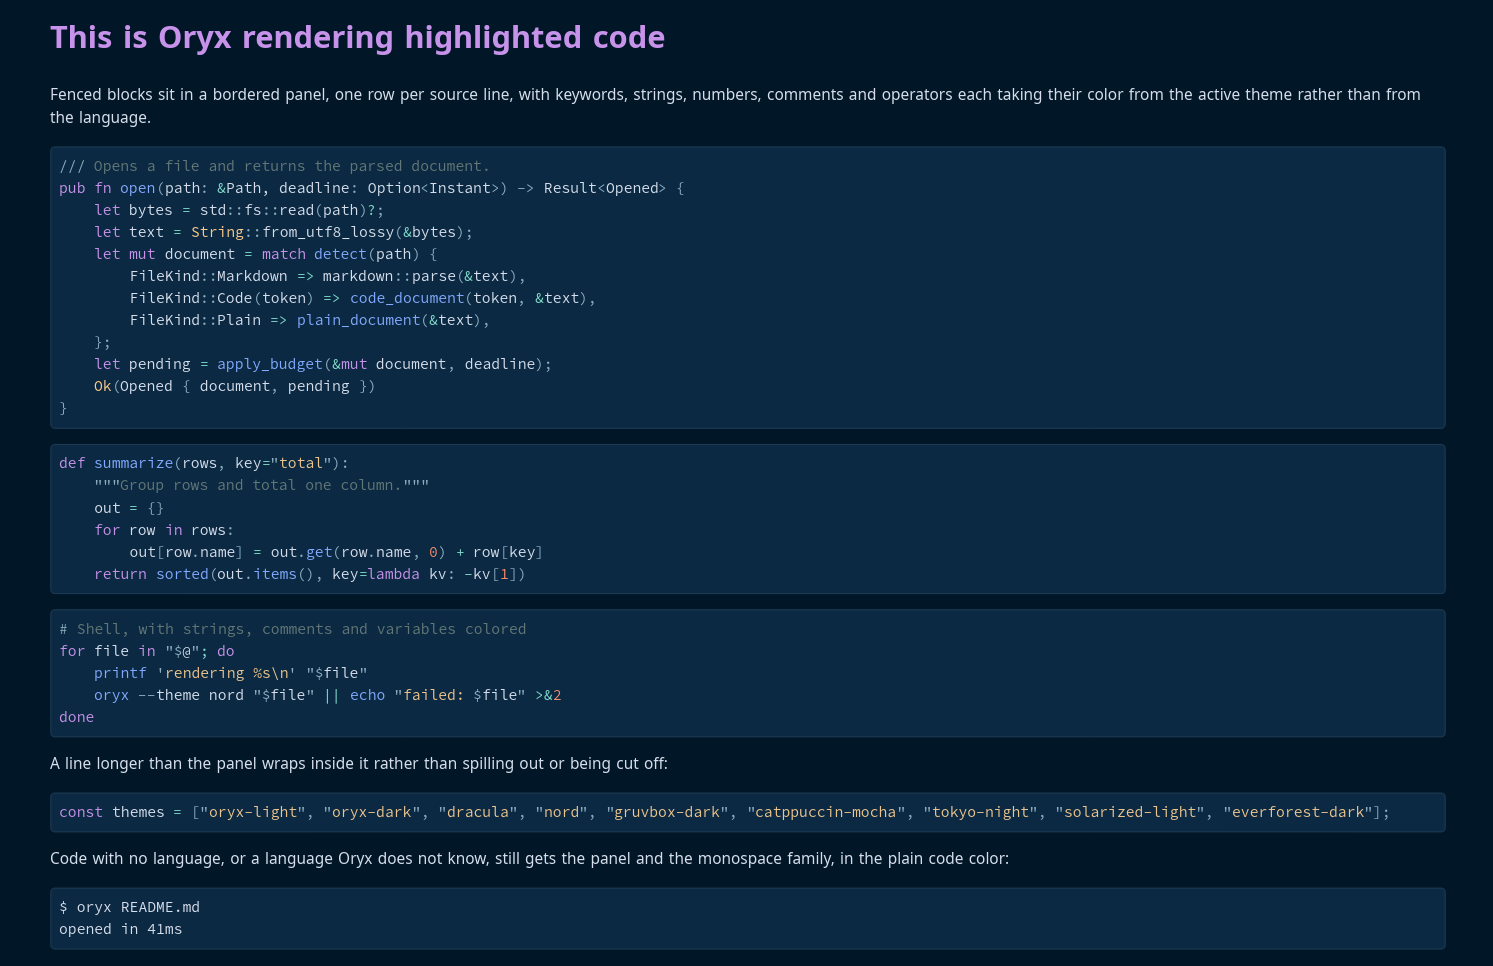
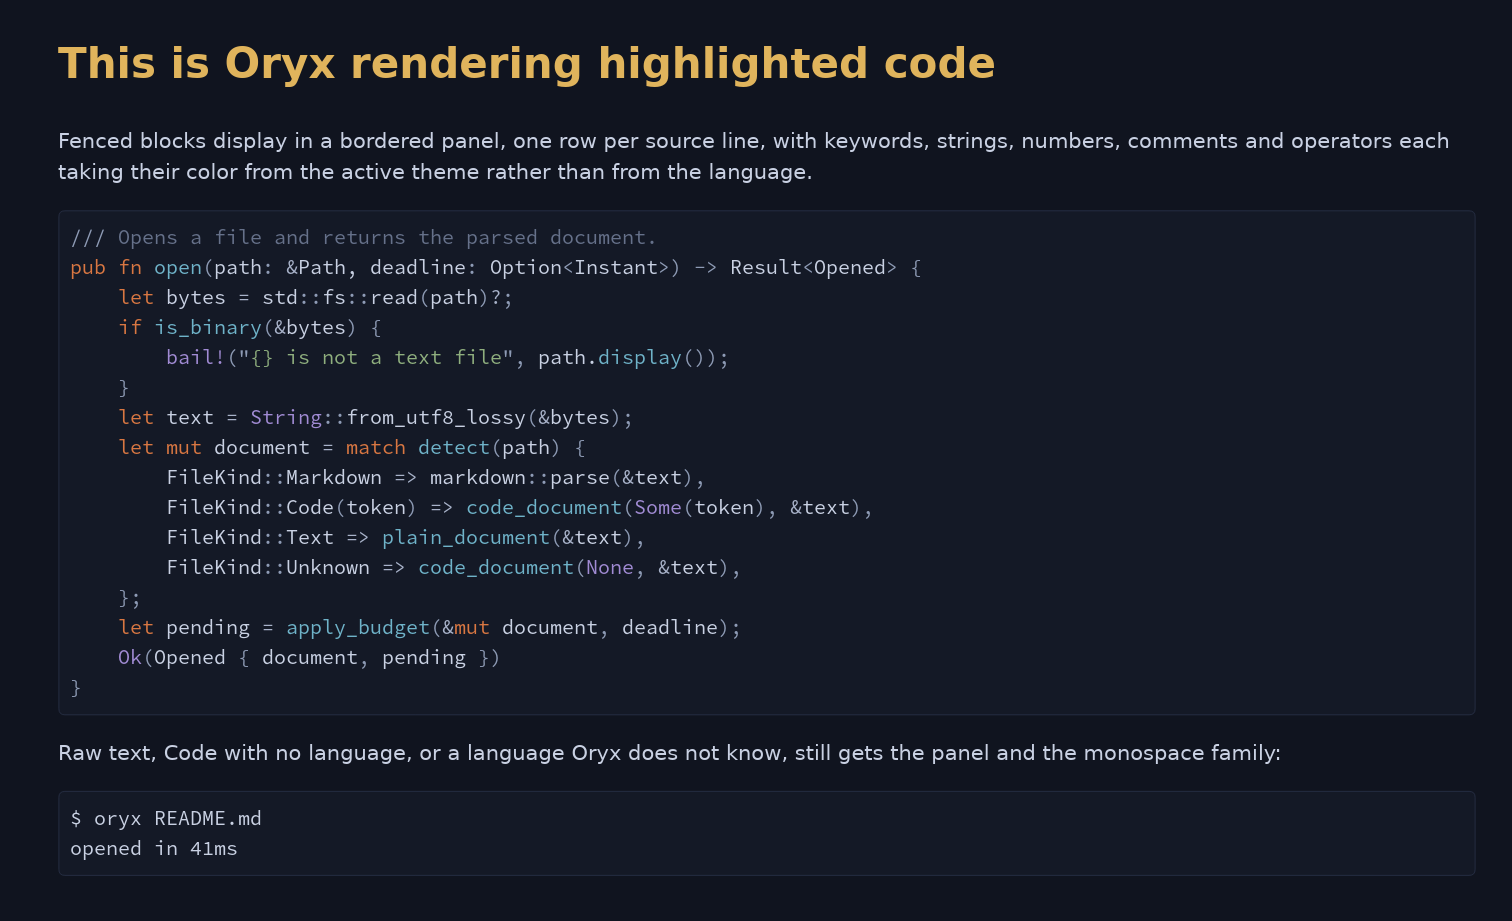
docs: README and screenshots

diff --git a/README.md b/README.md
@@ -5,65 +5,78 @@ A fast, native viewer for markdown and code.
 ![License](https://img.shields.io/badge/license-GPL--3.0-orange)
 ![Platforms](https://img.shields.io/badge/platforms-Linux%20%7C%20Windows-blue)
 
-Most markdown tools are editors with a preview attached, or they embed a browser engine to draw text. Oryx is built for the reading case: the file you want to open, read and close, without an editor or a browser tab in the way. It renders documents natively in one small binary, opens them in a fraction of a second whatever their size, and ships with thirty-one themes and a PDF exporter.
+## Why Oryx
+
+Oryx is built for the reading case: the file you want to open fast, enjoy reading, maybe export to PDF and close, without an editor or a browser tab in the way. It renders beautiful markdown natively in one small binary, opens files in a fraction of a second whatever their size, and ships with many themes and nice-looking PDF export.
+
+- A normal document is on screen in well under 100 milliseconds from cold, and an 8MB file takes under half a second.
+- Oryx has no panes, no toolbars and no menus. F1 lists the shortcuts, Escape closes whatever is open.
+- It renders beautiful markdown and PDF exports with its 31 themes that address 51 color roles.
+- One binary and a folder of themes. No browser engine, no runtime, no GPU requirement.
+- It performs the same on a new laptop as on an old machine with no graphics card.
 
 ![Oryx rendering a markdown document](screenshots/formatting.png)
 
-[Why Oryx](#why-oryx) · [What it renders](#what-it-renders) · [Reading tools](#reading-tools) · [Themes](#themes) · [Export to PDF](#export-to-pdf) · [Install](#install) · [Use](#use) · [Performance](#performance) · [Limits](#limits)
+- [What it renders](#what-it-renders)
+- [Tools](#tools)
+- [Themes](#themes)
+- [Export to PDF](#export-to-pdf)
+- [Install](#install)
+- [Use](#use)
+- [Performance](#performance)
+- [Limits](#limits)
 
-## Why Oryx
-
-**It opens instantly, whatever the size.** A normal document is on screen in well under 150 milliseconds from cold, and an 8MB file takes under half a second. Oryx highlights and lays out only the first few screens before it paints, then finishes the rest in the background while you read.
-
-**It reads, it does not edit.** There are no panes, no toolbars and no menus. F1 lists every shortcut, Escape closes whatever is open, and everything works from the keyboard.
-
-**There is nothing to install around it.** One binary and a folder of themes. No browser engine, no runtime, no GPU requirement. It behaves the same on a new laptop as on an old machine with no graphics card to speak of.
 
 ## What it renders
 
-**Markdown, the whole everyday set.** Headings, bold, italic, strikethrough, inline code, links and bare URLs, nested blockquotes, horizontal rules, smart quotes and dashes, and emoji shortcodes like `:tada:`. Ordered, unordered and task lists nest as deep as needed, and a wrapped line aligns with the text above it, not with the bullet. Tables keep per-column alignment, shade alternating rows and wrap long cells, so a wide table never runs off the page.
-
-**Code.** Fenced blocks get a bordered panel and syntax colors for the languages most people write, and a line too long for the panel wraps inside it. Oryx also opens source files directly and renders the whole file as one highlighted document. Close to a hundred extensions carry colors, from Rust and Python through Haskell, LaTeX, Makefiles and diffs. Any other text file opens in the code font, and a binary is announced in one line.
+- **Markdown**: Headings, bold, italic, strikethrough, inline code, links and bare URLs, nested blockquotes, horizontal rules, smart quotes and dashes, and emoji shortcodes like `:tada:`. Ordered, unordered and task lists nest as deep as needed, and a wrapped line aligns with the text above it, not with the bullet. Tables keep per-column alignment, shade alternating rows and wrap long cells, so a wide table never runs off the page.
+- **Code**: Fenced blocks get a bordered panel and syntax colors for the languages most people write, and a line too long for the panel wraps inside it. Oryx also opens source files directly and renders the whole file as one highlighted document. Close to a hundred extensions carry colors, from Rust and Python through Haskell, LaTeX, Makefiles and diffs. Any other text file opens in the code font, and a binary is announced in one line.
+- **Text**: Text files other than code and markdown are detected and shown in the sidebar and can be viewed raw.
 
 ![Oryx rendering highlighted code](screenshots/code.png)
 
-**The extras real documents use.** All five GitHub alert kinds are styled, each with its own color and title. A YAML frontmatter header becomes a small metadata panel above the document. TeX math comes out with real symbols, inline or centered on a line of its own. Footnote markers sit raised in the text and jump to their definitions, gathered at the foot of the document.
-
-**Images and badges.** Local images render in place: PNG, JPEG, GIF, WebP or SVG. Remote images are fetched in the background and cached on disk, so a README covered in badges comes up immediately the second time it is opened, and keeps working offline. A broken path gets a placeholder carrying the alt text.
-
-**The HTML that READMEs lean on.** Real READMEs use raw HTML for the things markdown cannot do, so Oryx handles the common subset: centered blocks, images at a set width or height, rows of clickable badges, line breaks, and the inline tags down to sub and sup.
+- **GitHub Alerts**: All five GitHub alert kinds are styled, each with its own color and title. A YAML frontmatter header becomes a small metadata panel above the document. TeX math comes out with real symbols, inline or centered on a line of its own. Footnote markers sit raised in the text and link to their definitions, gathered at the foot of the document.
+- **Images and badges**: Local images render in place: PNG, JPEG, GIF, WebP or SVG. Remote images are fetched in the background and cached on disk, so a README covered in badges comes up immediately the second time it is opened, and keeps working offline. A broken path gets a placeholder carrying the alt text.
+- **Basic HTML**: Oryx handles the common subset: centered blocks, images at a set width or height, rows of clickable badges, line breaks, and the inline tags down to sub and sup.
 
 ![Oryx rendering a GitHub style README](screenshots/github.png)
 
-## Reading tools
+## Tools
 
-**Find in document.** Ctrl+F searches everywhere text is laid out, so list items, link text, table cells, quotes and code blocks all count. The search is smart about case. Type `oryx` and it matches Oryx, ORYX and oryx. Add a capital and only the exact form matches. A match can cross styling, so `fast viewer` is found even when it was written as **fast** *viewer*.
-
-**Select and copy.** Ctrl+C copies a selection as plain text. Ctrl+Shift+C reproduces the original markdown of the selection, styles intact.
-
-**Move around.** A folder sidebar on Ctrl+B shows the tree around the open file and can be driven entirely from the keyboard, with a type icon beside each file. Ctrl+O opens the native file dialog. Links open in the system browser, and links to headings scroll to their target. F5 reloads a file being edited elsewhere. Zoom sits on Ctrl+Plus and Ctrl+Minus for the current session.
-
-**It remembers.** Window geometry, the active theme, the sidebar and the last folder all survive a restart.
+- **Find in document**: Ctrl+F searches text. The search is smart about case. `oryx` will match Oryx, ORYX and oryx. `Oryx` will perform an exact match. A match can cross styling, so `fast viewer` is found even when it was written as **fast** *viewer*.
+- **Select and copy**: Ctrl+C copies a selection as plain text. Ctrl+Shift+C copies the original markdown of the selection.
+- **Sidebar**: A folder sidebar on Ctrl+B shows the tree around the open file and can be driven entirely from the keyboard. 
+- **Ctrl+O**: Opens the native file dialog.
+- **F5**: Reloads a file being edited elsewhere. 
+- **Zoom**: Using Ctrl+Plus (in) and Ctrl+Minus (out).
+- **Persistence**: Window geometry, the active theme, the sidebar and the last folder all saved and restored at every start.
 
 ## Themes
 
-Thirty-one themes ship with Oryx. Each is a single TOML file with 51 color roles, so every element can be colored on its own. A missing key falls back to a default. A malformed file is skipped, and the active theme stays. Delete every theme file and the next launch recreates the folder with one complete theme to build from.
+Thirty-one themes ship with Oryx. Each is a single TOML file with 51 color roles, so every element can be colored on its own. A missing key falls back to a default. A malformed file is skipped, and the active theme stays.
 
-The browser on Ctrl+T previews themes and applies them live.
+On Ctrl+T the browser previews themes and applies them live.
 
 ![The theme browser](screenshots/themes.png)
 
 The editor changes any role with a color picker while the document restyles behind it. Editing a bundled theme writes a copy, so the shipped files stay as they were. A custom theme is one TOML file dropped in the themes directory.
 
+![The theme editor](screenshots/themes-editor.png)
+
 Nine themes are original designs: `oryx-light` and its dark twin `oryx-dark`, `oryx-sand` and `oryx-night`, `inkstone`, `ember`, `meadow`, `slate`, and `be-vendible`. The rest adapt permissively licensed editor palettes, credited at the end.
 
 ## Export to PDF
 
-Ctrl+E writes the document to a PDF and asks only where to put it. The page carries the document as it looks on screen: the theme's colors to the edge of the sheet, the same headings and code panels, images and badges in place, and links that still work in a reader. Headings become the outline a PDF viewer navigates by, text stays selectable and searchable, and the fonts travel inside the file.
+Ctrl+Shift+E opens the export settings: theme, body font and size, code font and size, page size and page numbers. They are kept apart from the app's own appearance and remembered between runs, so reading in a dark theme at 22 points and exporting in a light one at 11 needs no switching back and forth.
 
-Ctrl+Shift+E opens the export settings: theme, body font and size, code font and size, page size and page numbers. They are kept apart from the app's own appearance and remembered between runs, so reading in a dark theme at 22 points and exporting in a light one at 11 needs no switching back and forth. Sizes are points on paper, so 11 or 12 is the usual body figure.
+Ctrl+E exports the document to a PDF and asks where to save it. The page carries the document as it looks on screen with the configured export theme. Headings are the outline a PDF viewer navigates by, and the fonts are embedded.
 
-Pages break where a reader would want them to: never through a line, never leaving a heading alone at the foot of a page, never cutting an image in half, and never splitting a table row that fits on a page. A row taller than the page itself is the one thing that has to split.
+Efforts were made to ensure that:
+
+- Page breaks don't happen through a line,
+- Headings are not left alone at the foot of a page,
+- Images are not cut,
+- Table rows are not split between pages unless the row is taller than the page itself.
 
 ## Install
 
@@ -129,7 +142,7 @@ Ctrl is Cmd on macOS.
 
 Oryx parses the file when it opens, lays out the first screens, and paints a band that covers the viewport plus a couple of screens either side. Scrolling inside that band is a memory copy, so the cost of a scroll frame does not depend on how long the document is. Syntax highlighting and the layout below follow in the background, a slice at a time, without moving anything already on screen. The event loop wakes only for input, and an idle window uses no CPU at all.
 
-Measured on one Linux machine, release build. First frame is cold launch to the first paint; the export column is Ctrl+E to the finished PDF, which lays the whole document out again at page size:
+Measured on my 2019 Linux laptop, release build. First frame is cold launch to the first paint; the export column is Ctrl+E to the finished PDF:
 
 | Document | First frame | PDF export |
 |---|---|---|
@@ -142,19 +155,15 @@ The 8MB markdown export writes a 9219-page file. A performance test in the repos
 
 ## Limits
 
-Oryx is built for everyday documents, and some things are out of scope.
+Oryx is built for everyday documents, and some things are out of scope (for the moment).
 
 - It does not edit files.
 - Math is drawn as styled text with real symbols, not fully typeset.
 - On a file several megabytes long, the colors and the layout below the first screens take a moment to catch up.
 - Memory grows with the file. An 8MB document costs a few hundred megabytes while it is open.
-- The HTML it understands is a deliberate subset. No HTML tables, no collapsible sections.
-- Remote images ride the operating system's TLS stack, which on Linux means the OpenSSL library nearly every distribution ships. Without it, badges show placeholders and everything else works.
+- The implemented HTML is a deliberate subset. No HTML tables, no collapsible sections.
+- Remote images ride the operating system's TLS stack, which on Linux means that it needs the OpenSSL library (which is normally shipped with every distro). Without it, badges show placeholders but everything else works.
 - macOS compiles but is untested, and there is no packaged build.
-
-## Contributing
-
-Bug reports and theme contributions are welcome on the issue tracker, on [Codeberg](https://codeberg.org/wmahfoudh/oryx/issues) or [GitHub](https://github.com/wmahfoudh/oryx/issues). Pull requests are read with interest. `make check` is the gate: formatting, clippy for the Linux, Windows and macOS targets, build, and the full test suite. The documents under `tests/showcase/` are the ones behind the screenshots above, and each exercises a single feature.
 
 ## Credits
 

diff --git a/tests/showcase/github.md b/tests/showcase/github.md
@@ -1,10 +1,3 @@
-<p align="center">
-<img src="https://img.shields.io/badge/this_is-Oryx-orange" height="20">
-<img src="https://img.shields.io/badge/rendering-a_GitHub_README-blue" height="20">
-<img src="https://img.shields.io/badge/drawn_on_the-CPU-black" height="20">
-<img src="https://img.shields.io/badge/startup-instant-brightgreen" height="20">
-</p>
-
 # This is Oryx rendering a GitHub style README
 
 Real project READMEs are not plain markdown. They open with a centered logo,
@@ -18,7 +11,7 @@ looks the way its author intended.
 
 <p align="center">
 <b>A fast, native markdown viewer</b><br>
-Reading, not editing<br>
+Reading, PDF export<br>
 One binary, no runtime
 </p>
 
@@ -31,17 +24,8 @@ tags: <b>bold</b>, <i>italic</i>, <code>code</code>, H<sub>2</sub>O with a
 subscript and 10<sup>6</sup> with a superscript.
 
 <p align="center">
-<a href="https://codeberg.org/wmahfoudh/oryx"><img src="https://img.shields.io/badge/source-Codeberg-blue" height="20"></a>
-<a href="https://www.rust-lang.org"><img src="https://img.shields.io/badge/built_in-Rust-black" height="20"></a>
-<a href="https://www.gnu.org/licenses/gpl-3.0"><img src="https://img.shields.io/badge/license-GPL--3.0-orange" height="20"></a>
+<img src="https://img.shields.io/badge/this_is-Oryx-orange" height="25">
+<img src="https://img.shields.io/badge/rendering-a_GitHub_README-blue" height="25">
+<img src="https://img.shields.io/badge/drawn_on_the-CPU-red" height="25">
+<img src="https://img.shields.io/badge/startup-instant-brightgreen" height="25">
 </p>
-
-Badges also sit inline inside ordinary text, at the size the tag asks for:
-the project is <img src="https://img.shields.io/badge/status-stable-brightgreen" height="18"> and
-runs on <img src="https://img.shields.io/badge/Linux-%7C%20Windows-blue" height="18">.
-
-## What it does not cover
-
-HTML tables and `<details>` sections are not rendered. Any other tag is
-stripped and its inner text kept, so an unsupported tag costs its styling
-and never its content.

diff --git a/tests/showcase/code.md b/tests/showcase/code.md
@@ -1,6 +1,6 @@
 # This is Oryx rendering highlighted code
 
-Fenced blocks sit in a bordered panel, one row per source line, with
+Fenced blocks display in a bordered panel, one row per source line, with
 keywords, strings, numbers, comments and operators each taking their color
 from the active theme rather than from the language.
 
@@ -23,32 +23,8 @@ pub fn open(path: &Path, deadline: Option<Instant>) -> Result<Opened> {
 }
 ```
 
-```python
-def summarize(rows, key="total"):
-    """Group rows and total one column."""
-    out = {}
-    for row in rows:
-        out[row.name] = out.get(row.name, 0) + row[key]
-    return sorted(out.items(), key=lambda kv: -kv[1])
-```
-
-```bash
-# Shell, with strings, comments and variables colored
-for file in "$@"; do
-    printf 'rendering %s\n' "$file"
-    oryx --theme nord "$file" || echo "failed: $file" >&2
-done
-```
-
-A line longer than the panel wraps inside it rather than spilling out or
-being cut off:
-
-```javascript
-const themes = ["oryx-light", "oryx-dark", "dracula", "nord", "gruvbox-dark", "catppuccin-mocha", "tokyo-night", "solarized-light", "everforest-dark"];
-```
-
-Code with no language, or a language Oryx does not know, still gets the
-panel and the monospace family, in the plain code color:
+Raw text, Code with no language, or a language Oryx does not know, still gets the
+panel and the monospace family:
 
 ```
 $ oryx README.md

diff --git a/tests/showcase/formatting.md b/tests/showcase/formatting.md
@@ -5,28 +5,17 @@ and spacing that grows with the weight of what precedes it. **Bold**,
 *italic*, ***both at once***, ~~strikethrough~~, and `inline code` in its
 own pill all sit in the same line without disturbing it.
 
-Links come in two forms, a [written link](https://codeberg.org/wmahfoudh/oryx)
-and a bare autolink like https://codeberg.org/wmahfoudh/oryx, both colored by
+Links come in two forms, a [written link](https://codeberg.org/)
+and a bare autolink like https://codeberg.org/, both colored by
 the theme and both clickable. Smart punctuation turns "straight quotes" into
 curly ones, -- into an en dash, and ... into an ellipsis. Emoji shortcodes
 render as glyphs through font fallback: :sparkles: :rocket: :tada: :books:
 
 ## Second level heading
 
-Each heading level takes its own size, weight and color from the theme, and
-carries more space above it than below, so a section reads as a section.
-
 ### Third level heading
 
-Consecutive paragraphs of the same style sit flush against each other.
-
-This second paragraph shows the gap that separates them, which is derived
-from the text size rather than fixed, so it scales with zoom.
-
 #### Fourth level heading
-
-Below fourth level the sizes converge toward body text while keeping their
-weight and color.
 
 ---
 
